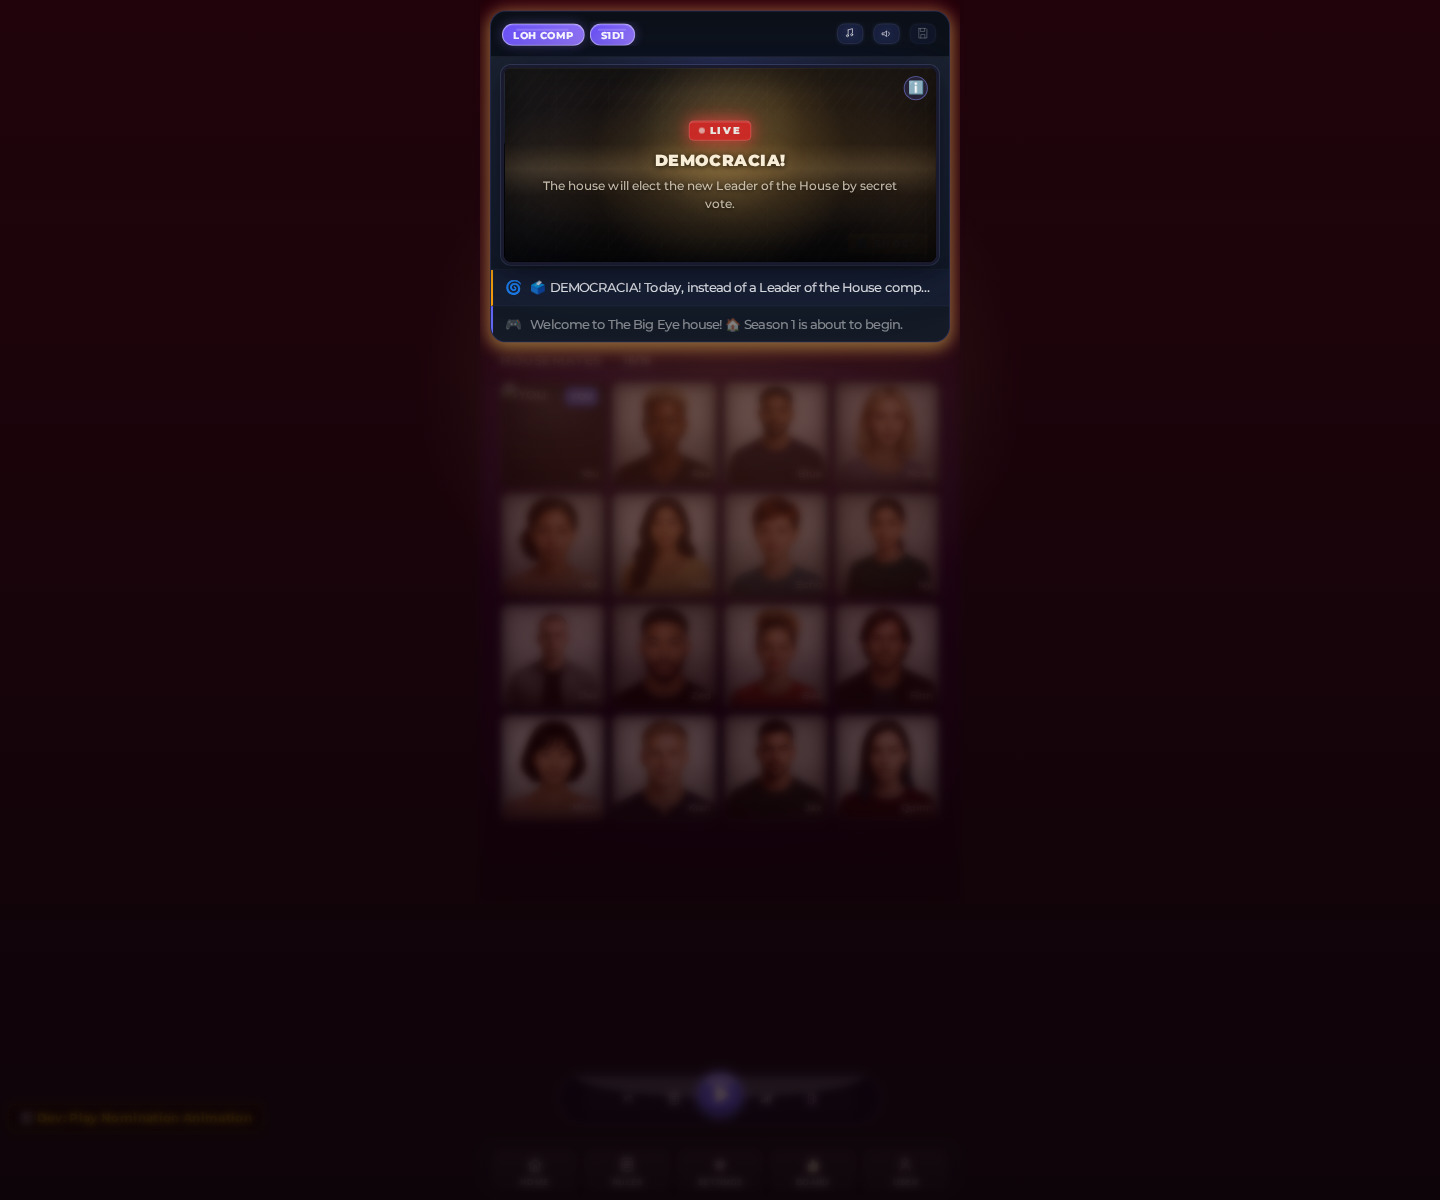
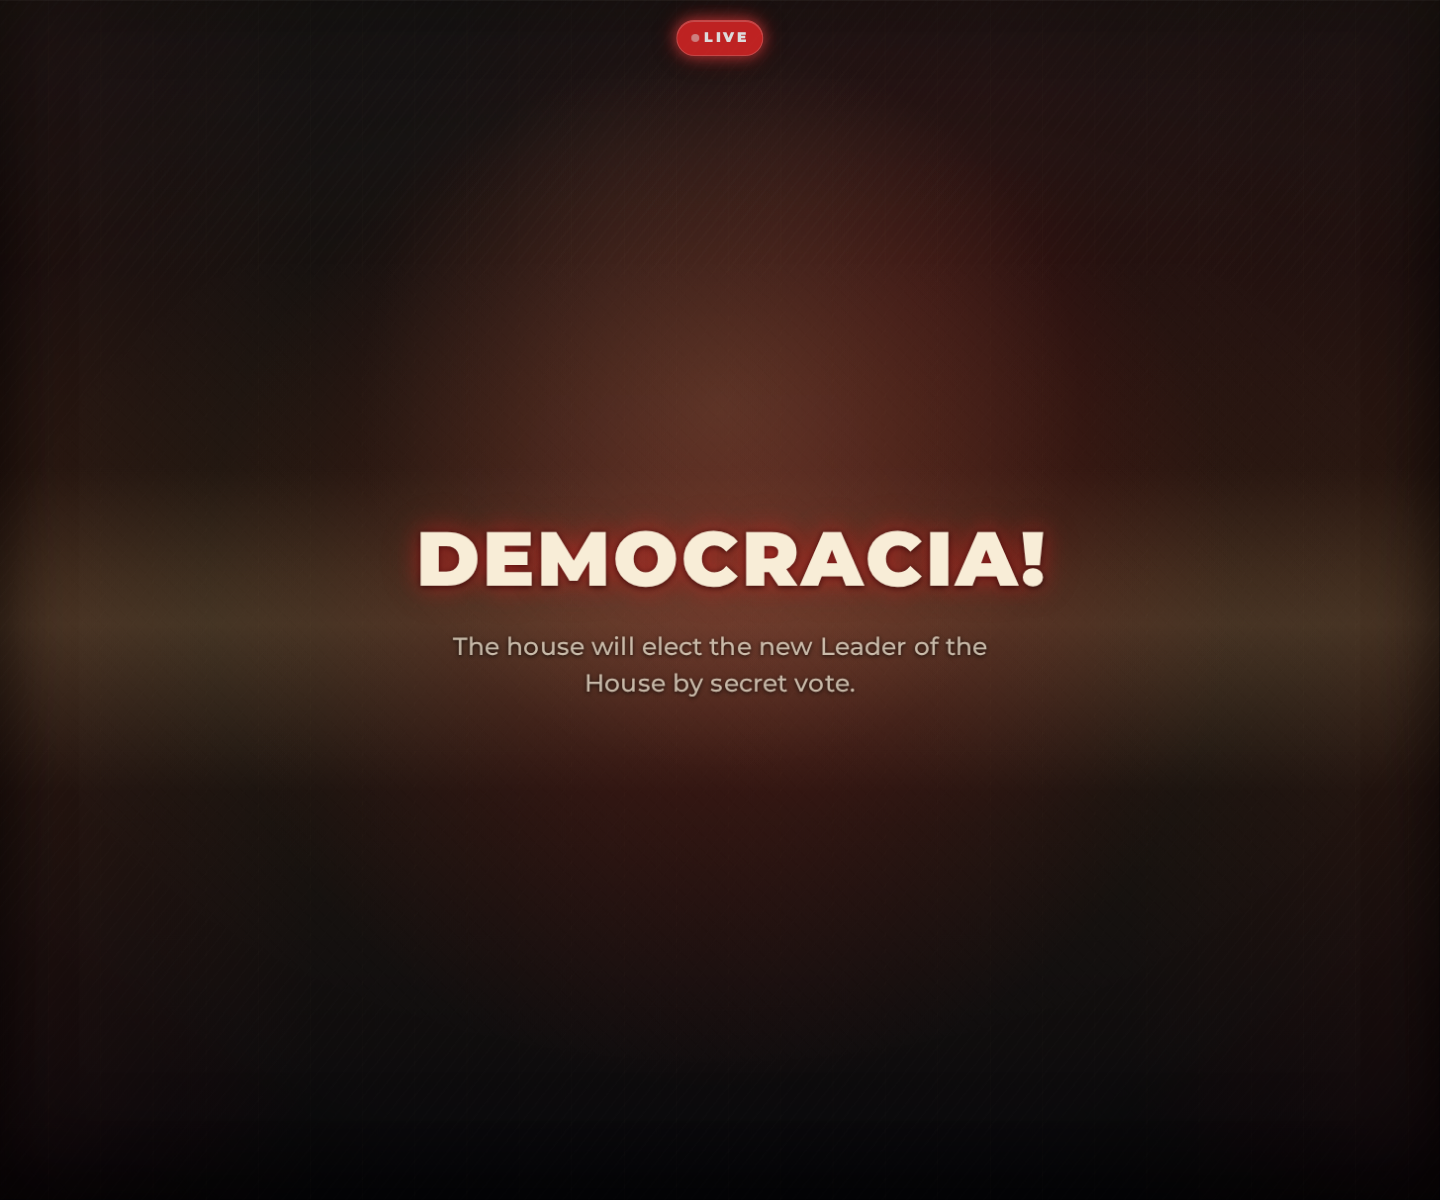
refine democracia TV presentation
Agent-Logs-Url: https://github.com/georgi-cole/bbmobilenew/sessions/47f082f6-ec60-4cfe-9119-98c1c23ee752

diff --git a/src/components/ui/__tests__/TvZone.announcement.test.tsx b/src/components/ui/__tests__/TvZone.announcement.test.tsx
@@ -129,7 +129,7 @@ describe('TvZone — announcement overlay', () => {
   });
 
   it('shows the dedicated Democracia shock announcement and opens its info modal', async () => {
-    const user = userEvent.setup();
+    vi.useFakeTimers();
     const store = makeStore();
     renderTvZone(store);
 
@@ -146,12 +146,20 @@ describe('TvZone — announcement overlay', () => {
       );
     });
 
-    expect(screen.getByRole('dialog', { name: /Announcement: Democracia!/i })).toBeDefined();
+    expect(document.body.querySelector('[data-testid="shock-intro-overlay"]')).not.toBeNull();
 
-    await user.click(screen.getByRole('button', { name: /More info about Democracia!/i }));
+    act(() => {
+      vi.advanceTimersByTime(SHOCK_INTRO_SETTLE_MS);
+    });
+
+    expect(screen.getByRole('dialog', { name: /Announcement: Democracia!/i })).toBeDefined();
+    expect(document.body.querySelector('.tv-zone-de-backdrop')).not.toBeNull();
+
+    fireEvent.click(screen.getByRole('button', { name: /More info about Democracia!/i }));
 
     expect(screen.getByRole('dialog', { name: /Phase info: Democracia/i })).toBeDefined();
     expect(screen.getByText(/The usual Leader of the House competition has been replaced/i)).toBeTruthy();
+    vi.useRealTimers();
   });
 
   it('renders the public save reveal inside the main tv viewport', () => {
@@ -1118,23 +1126,29 @@ describe('TvZone — phase-based announcement triggers', () => {
     act(() => { store.dispatch(activateDoubleEviction()); });
 
     expect(screen.queryByRole('dialog', { name: /Announcement: Nomination Ceremony/i })).toBeNull();
-    expect(document.body.querySelector('[data-testid="shock-intro-overlay"]')).not.toBeNull();
-
-    act(() => {
-      vi.advanceTimersByTime(SHOCK_INTRO_SETTLE_MS);
-    });
-
     expect(screen.getByRole('dialog', { name: /Announcement: Double Elimination!/i })).toBeDefined();
+    expect(document.body.querySelector('[data-testid="shock-intro-overlay"]')).toBeNull();
+    expect(document.body.querySelector('.tv-zone-de-backdrop')).toBeNull();
     vi.useRealTimers();
   });
 
-  it('keeps shock announcements fullscreen before rolling them back into the main TV', () => {
+  it('keeps Democracia fullscreen before rolling it back into the main TV', () => {
     vi.useFakeTimers();
     const store = makeStore();
     renderTvZone(store);
 
-    act(() => { store.dispatch(setPhase('nominations')); });
-    act(() => { store.dispatch(activateDoubleEviction()); });
+    act(() => {
+      store.dispatch(
+        addTvEvent(
+          makeEvent({
+            id: 'ev-democracia-fullscreen',
+            text: 'Democracia has been activated.',
+            type: 'twist',
+            meta: { major: 'democracia' },
+          }),
+        ),
+      );
+    });
 
     expect(document.body.querySelector('[data-testid="shock-intro-overlay"]')).not.toBeNull();
     expect(document.body.querySelector('.shock-intro .tv-announcement')).not.toBeNull();
@@ -1156,13 +1170,23 @@ describe('TvZone — phase-based announcement triggers', () => {
     vi.useRealTimers();
   });
 
-  it('plays the Double Eviction TV spotlight after the fullscreen shock intro completes, then returns the surrounding UI to normal', () => {
+  it('plays the Democracia TV spotlight after the fullscreen shock intro completes, then returns the surrounding UI to normal', () => {
     vi.useFakeTimers();
     const store = makeStore();
     renderTvZone(store);
 
-    act(() => { store.dispatch(setPhase('nominations')); });
-    act(() => { store.dispatch(activateDoubleEviction()); });
+    act(() => {
+      store.dispatch(
+        addTvEvent(
+          makeEvent({
+            id: 'ev-democracia-spotlight',
+            text: 'Democracia has been activated.',
+            type: 'twist',
+            meta: { major: 'democracia' },
+          }),
+        ),
+      );
+    });
 
     expect(document.body.querySelector('.tv-zone-de-backdrop')).toBeNull();
     expect(screen.getByLabelText('Game action zone').className).not.toContain('tv-zone--de-spotlight');

diff --git a/src/components/AnimatedVoteResultsModal/__tests__/AnimatedVoteResultsModal.test.tsx b/src/components/AnimatedVoteResultsModal/__tests__/AnimatedVoteResultsModal.test.tsx
@@ -163,7 +163,7 @@ describe('AnimatedVoteResultsModal public tie-break reveal', () => {
     expect(onDone).toHaveBeenCalledTimes(1);
   });
 
-  it('renders the TV variant as a duel layout with circular vote rings and vote shares', async () => {
+  it('renders the TV variant as a duel layout with circular vote rings and vote shares only', async () => {
     const { container } = render(
       <AnimatedVoteResultsModal
         nominees={[
@@ -188,10 +188,10 @@ describe('AnimatedVoteResultsModal public tie-break reveal', () => {
     expect(container.querySelectorAll('.avrm__tv-vote-ring')).toHaveLength(2);
     expect(container.querySelectorAll('.avrm__tv-vote-ring-track')).toHaveLength(2);
     expect(container.querySelector('.avrm__tv-vote-ring-fill')?.getAttribute('stroke-dasharray')).toBeTruthy();
-    expect(container.querySelector('.avrm__tally-count[aria-label="1 vote"]')).toBeTruthy();
     expect(screen.getByText('Live')).toBeTruthy();
     expect(container.querySelector('.avrm__commentary--tv')).toBeNull();
     expect(container.querySelectorAll('.avrm__tv-vote-share')).toHaveLength(2);
+    expect(container.querySelector('.avrm__tally--tv .avrm__tally-count')).toBeNull();
     expect(container.querySelector('.avrm__tally--tv .avrm__tally-name')).toBeNull();
     expect(screen.getByText('Nominee 1')).toHaveClass('visually-hidden');
     expect(screen.queryByText(/has been eliminated\./i)).toBeNull();

diff --git a/src/components/ui/TvZone.tsx b/src/components/ui/TvZone.tsx
@@ -184,16 +184,7 @@ const CONTINUOUS_MAJOR_ANNOUNCEMENT_KEYS = new Set([
  *   3. Info-button spotlight (ConfessionalSpotlightOverlay reused)
  */
 const SHOCK_ANNOUNCEMENT_KEYS = new Set([
-  'twist',
-  'double_eviction',
-  'vip_veto',
-  'diamond_pov',
-  'coup_detat',
-  'spotlight_veto',
-  'battle_back',
-  'battle_back_shock',
-  'battle_back_rules',
-  'battle_back_challenge',
+  'democracia',
 ]);
 
 type TvZonePublicSaveReveal = {
@@ -524,13 +515,7 @@ export default function TvZone(props: TvZoneProps) {
   // Play a short TV-only spotlight intro for Double Eviction announcements,
   // then return the surrounding UI to normal while keeping the announcement visible.
   useEffect(() => {
-    const isSpecialAnnouncement =
-      activeAnnouncement?.key === 'double_eviction' ||
-      activeAnnouncement?.key === 'vip_veto' ||
-      activeAnnouncement?.key === 'diamond_pov' ||
-      activeAnnouncement?.key === 'coup_detat' ||
-      activeAnnouncement?.key === 'spotlight_veto' ||
-      activeAnnouncement?.key === 'democracia';
+    const isSpecialAnnouncement = activeAnnouncement?.key === 'democracia';
 
     if (!isSpecialAnnouncement || !showInlineAnnouncement) {
       startTransition(() => {

diff --git a/src/components/AnimatedVoteResultsModal/AnimatedVoteResultsModal.tsx b/src/components/AnimatedVoteResultsModal/AnimatedVoteResultsModal.tsx
@@ -316,12 +316,6 @@ export default function AnimatedVoteResultsModal({
                         tone={isLeading ? 'leading' : 'trailing'}
                       />
                       <span className="visually-hidden">{t.nominee.name}</span>
-                      <span
-                        className="avrm__tally-count"
-                        aria-label={`${shown} vote${shown === 1 ? '' : 's'}`}
-                      >
-                        {shown}
-                      </span>
                       <span className="avrm__tv-vote-share">
                         {`${calculateRoundedPercentage(shown, totalVotes)}%`}
                       </span>
